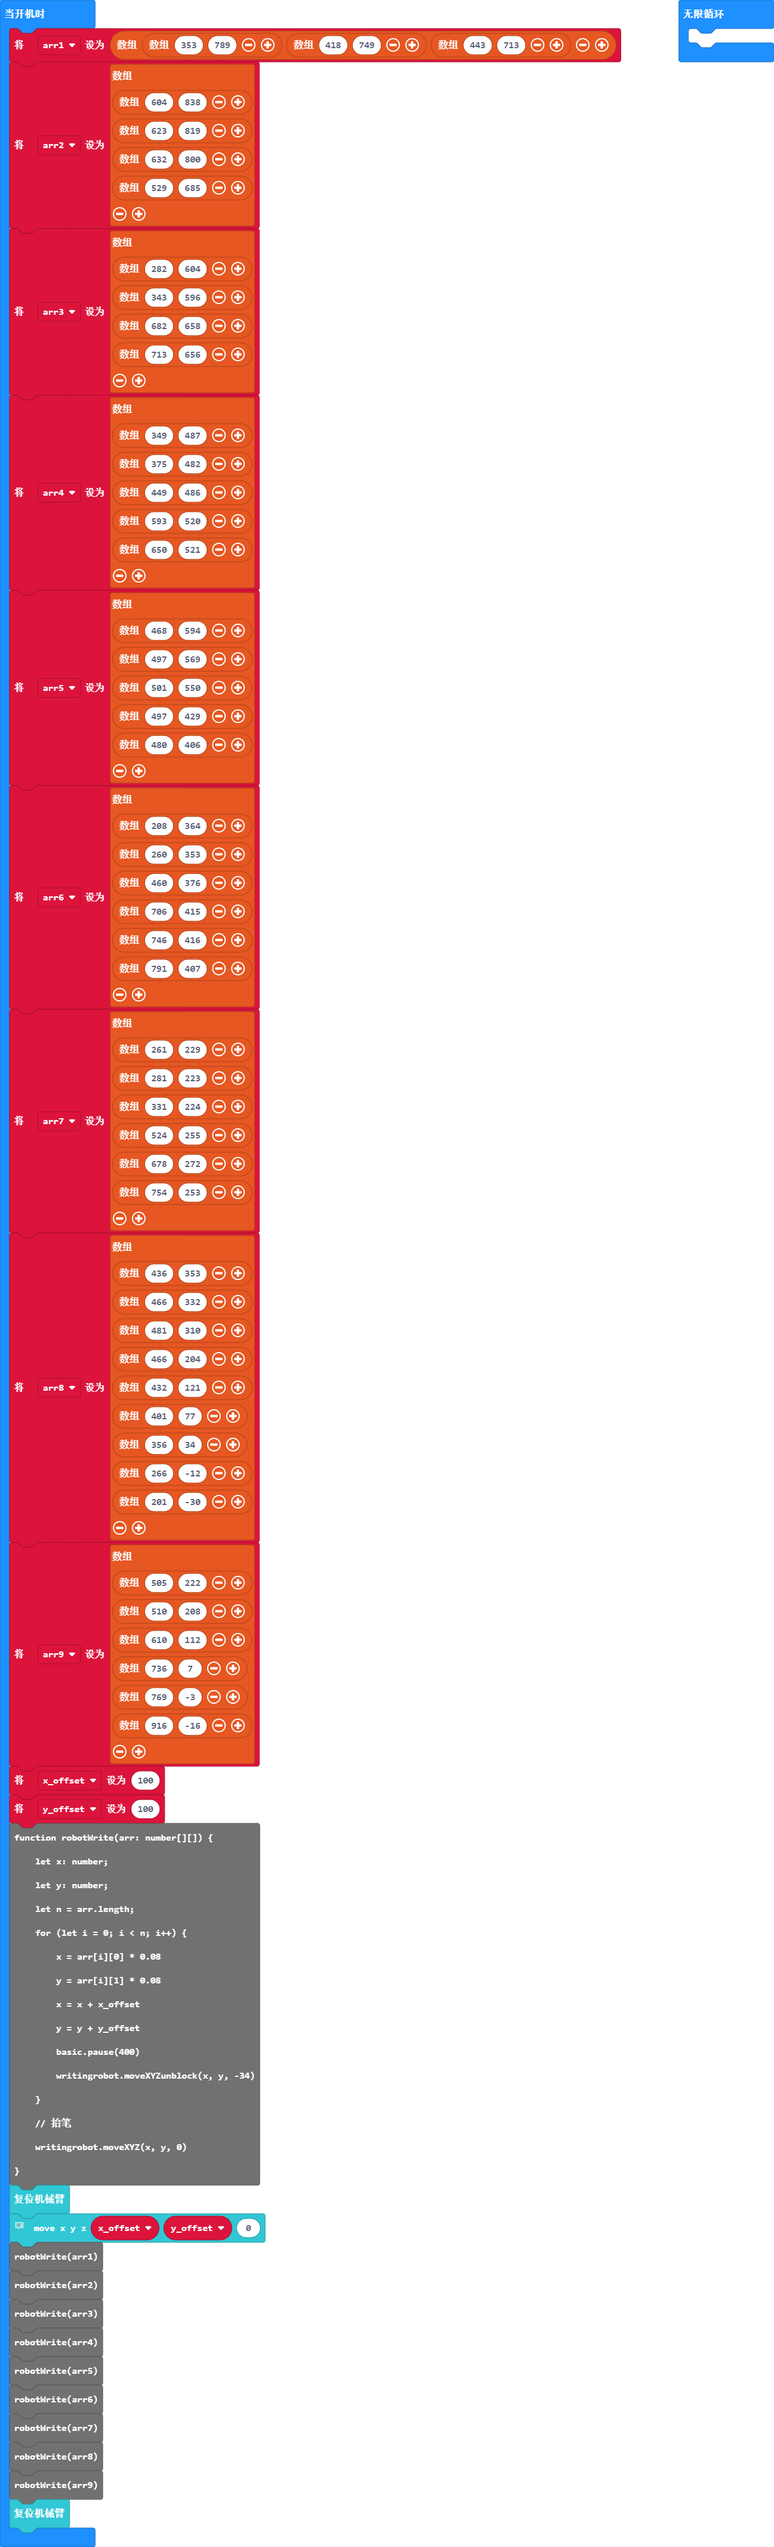
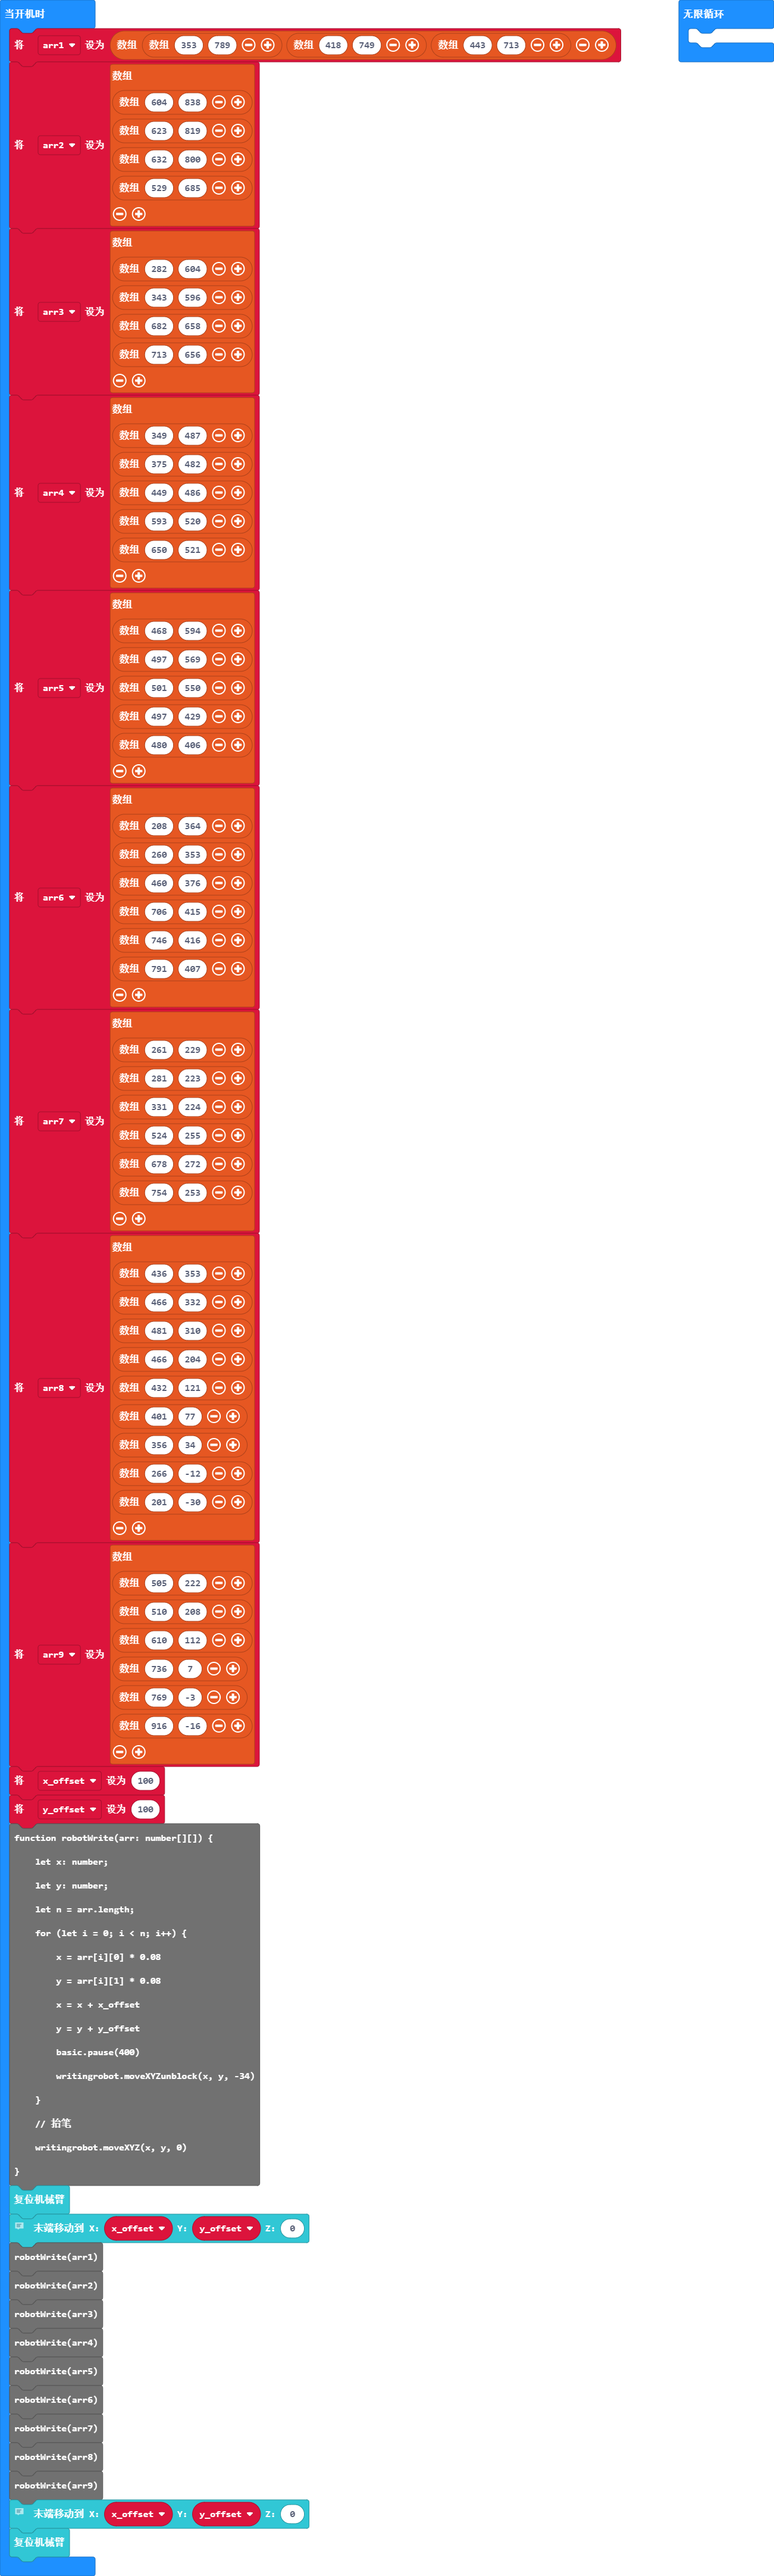
优化控制

diff --git a/main.ts b/main.ts
@@ -89,6 +89,9 @@ robotWrite(arr6)
 robotWrite(arr7)
 robotWrite(arr8)
 robotWrite(arr9)
+
+// 归位
+writingrobot.moveXYZ(x_offset, y_offset, 0)
 writingrobot.autoHome()
 basic.forever(function () {
 	
